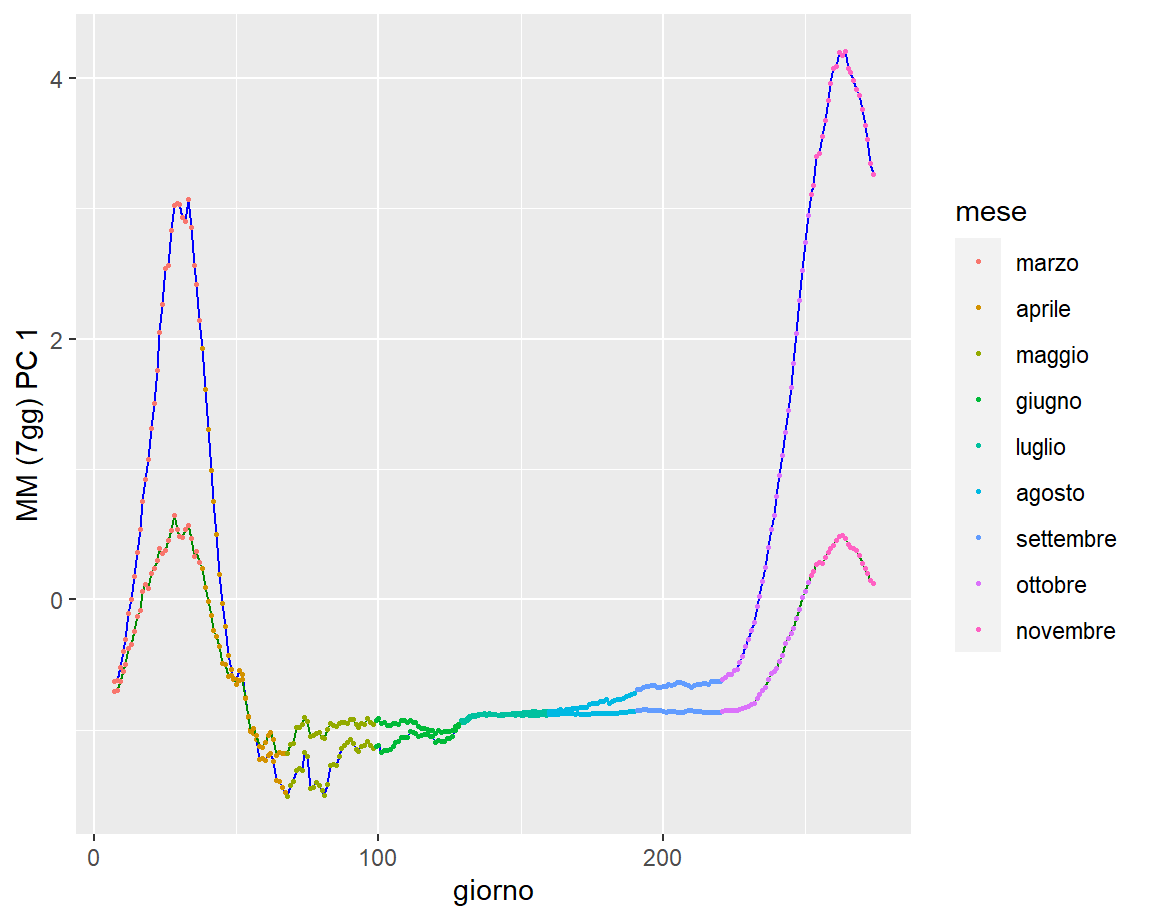
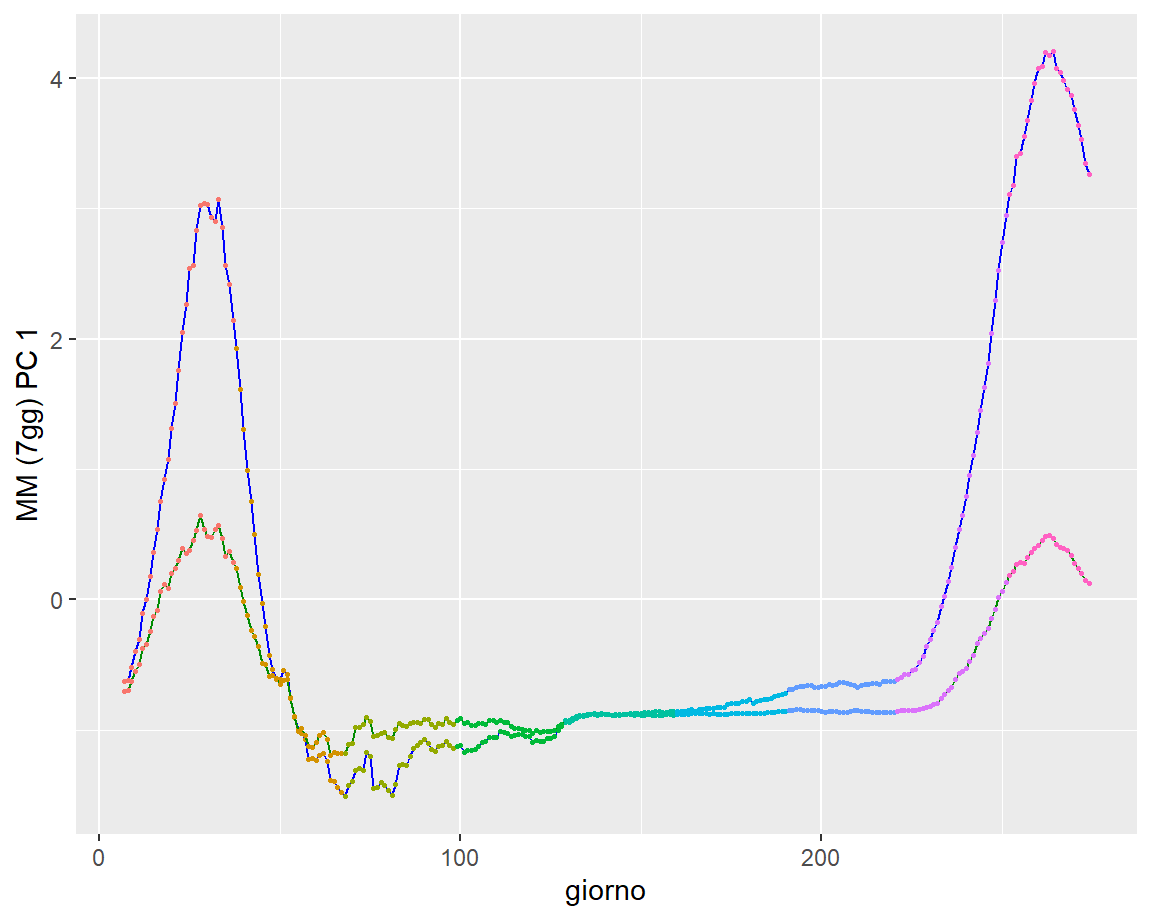
Add files via upload

diff --git a/index.html b/index.html
@@ -2719,16 +2719,16 @@ window.FlexDashboardComponents.push({
 <div class="knitr-options" data-fig-width="576" data-fig-height="460">
 
 </div>
-<div id="htmlwidget-ed10fe36259501f4ece8" style="width:100%;height:auto;" class="datatables html-widget"></div>
-<script type="application/json" data-for="htmlwidget-ed10fe36259501f4ece8">{"x":{"filter":"none","fillContainer":true,"data":[["febbraio","febbraio","febbraio","febbraio","febbraio","febbraio","marzo","marzo","marzo","marzo","marzo","marzo","marzo","marzo","marzo","marzo","marzo","marzo","marzo","marzo","marzo","marzo","marzo","marzo","marzo","marzo","marzo","marzo","marzo","marzo","marzo","marzo","marzo","marzo","marzo","marzo","marzo","aprile","aprile","aprile","aprile","aprile","aprile","aprile","aprile","aprile","aprile","aprile","aprile","aprile","aprile","aprile","aprile","aprile","aprile","aprile","aprile","aprile","aprile","aprile","aprile","aprile","aprile","aprile","aprile","aprile","aprile","maggio","maggio","maggio","maggio","maggio","maggio","maggio","maggio","maggio","maggio","maggio","maggio","maggio","maggio","maggio","maggio","maggio","maggio","maggio","maggio","maggio","maggio","maggio","maggio","maggio","maggio","maggio","maggio","maggio","maggio","maggio","giugno","giugno","giugno","giugno","giugno","giugno","giugno","giugno","giugno","giugno","giugno","giugno","giugno","giugno","giugno","giugno","giugno","giugno","giugno","giugno","giugno","giugno","giugno","giugno","giugno","giugno","giugno","giugno","giugno","giugno","luglio","luglio","luglio","luglio","luglio","luglio","luglio","luglio","luglio","luglio","luglio","luglio","luglio","luglio","luglio","luglio","luglio","luglio","luglio","luglio","luglio","luglio","luglio","luglio","luglio","luglio","luglio","luglio","luglio","luglio","luglio","agosto","agosto","agosto","agosto","agosto","agosto","agosto","agosto","agosto","agosto","agosto","agosto","agosto","agosto","agosto","agosto","agosto","agosto","agosto","agosto","agosto","agosto","agosto","agosto","agosto","agosto","agosto","agosto","agosto","agosto","agosto","settembre","settembre","settembre","settembre","settembre","settembre","settembre","settembre","settembre","settembre","settembre","settembre","settembre","settembre","settembre","settembre","settembre","settembre","settembre","settembre","settembre","settembre","settembre","settembre","settembre","settembre","settembre","settembre","settembre","settembre","ottobre","ottobre","ottobre","ottobre","ottobre","ottobre","ottobre","ottobre","ottobre","ottobre","ottobre","ottobre","ottobre","ottobre","ottobre","ottobre","ottobre","ottobre","ottobre","ottobre","ottobre","ottobre","ottobre","ottobre","ottobre","ottobre","ottobre","ottobre","ottobre","ottobre","ottobre","novembre","novembre","novembre","novembre","novembre","novembre","novembre","novembre","novembre","novembre","novembre","novembre","novembre","novembre","novembre","novembre","novembre","novembre","novembre","novembre","novembre","novembre","novembre"],[1,2,3,4,5,6,7,8,9,10,11,12,13,14,15,16,17,18,19,20,21,22,23,24,25,26,27,28,29,30,31,32,33,34,35,36,37,38,39,40,41,42,43,44,45,46,47,48,49,50,51,52,53,54,55,56,57,58,59,60,61,62,63,64,65,66,67,68,69,70,71,72,73,74,75,76,77,78,79,80,81,82,83,84,85,86,87,88,89,90,91,92,93,94,95,96,97,98,99,100,101,102,103,104,105,106,107,108,109,110,111,112,113,114,115,116,117,118,119,120,121,122,123,124,125,126,127,128,129,130,131,132,133,134,135,136,137,138,139,140,141,142,143,144,145,146,147,148,149,150,151,152,153,154,155,156,157,158,159,160,161,162,163,164,165,166,167,168,169,170,171,172,173,174,175,176,177,178,179,180,181,182,183,184,185,186,187,188,189,190,191,192,193,194,195,196,197,198,199,200,201,202,203,204,205,206,207,208,209,210,211,212,213,214,215,216,217,218,219,220,221,222,223,224,225,226,227,228,229,230,231,232,233,234,235,236,237,238,239,240,241,242,243,244,245,246,247,248,249,250,251,252,253,254,255,256,257,258,259,260,261,262,263,264,265,266,267,268,269,270,271,272,273,274],[101,13,14,120,97,56,238,103,292,312,444,604,257,906,759,722,800,812,776,946,1291,1362,1869,1469,1394,263,1688,2138,846,1245,1175,1641,1276,647,710,409,397,211,137,201,269,-61,27,-258,-233,-86,-157,-98,-297,176,-12,-368,-750,-1107,-779,26,-127,-772,-329,-934,-803,-535,-161,-1019,-630,-513,-1061,-580,-212,-115,-419,-553,-501,-595,-538,-802,-216,-79,-674,-693,-719,-661,-392,-89,-104,-216,-367,-355,-312,-262,-82,-428,-268,-188,-350,-285,-414,-293,-288,-183,-174,-239,-202,-299,-138,-135,-148,-261,-189,-238,-146,-153,-105,-188,-188,-246,-235,-158,-160,-276,-185,-243,-95,-159,-96,-100,-40,-30,-65,-62,-7,-16,5,1,-6,-41,-28,-27,-18,-50,-8,9,20,-47,21,-14,-14,2,-13,-8,-11,0,18,4,5,9,-18,17,-32,-11,3,26,27,3,-2,17,-8,-8,16,22,-22,7,-15,-7,23,23,33,23,17,36,5,47,74,13,-3,76,47,-10,83,37,92,57,68,102,13,63,36,41,18,58,13,102,91,80,100,63,63,39,-7,-15,110,129,54,73,6,9,100,131,71,-1,50,45,63,82,200,138,157,143,161,250,183,302,255,394,326,382,439,514,545,778,603,637,855,738,719,991,958,1026,983,1030,972,936,938,1274,1002,1140,749,1104,1331,1196,997,811,429,1041,484,649,489,538,430,106,347,106,216,418],[26,9,1,20,8,41,35,26,63,66,56,111,105,83,83,144,151,125,175,190,154,179,209,197,241,157,202,152,195,192,93,123,120,124,50,75,42,12,18,15,-74,-17,-79,-106,-99,-88,-108,-116,-38,-83,-74,-107,-143,-124,-79,-98,-62,-102,-87,-117,-94,-71,-93,-53,-93,-68,-101,-116,-39,-38,-22,-52,-94,-22,-143,-134,-7,-28,-47,-59,-38,-47,-33,-13,-13,-33,-40,-36,-45,-23,-19,-12,-20,-16,-16,-14,-25,-15,-11,-16,-55,-15,-22,-23,-6,-4,-20,-14,-13,-9,-7,-11,-2,-30,-14,5,-7,-9,-4,-21,-12,-8,-4,2,-8,1,-2,-3,-6,-5,-3,-8,3,-2,-2,1,-2,-4,2,1,-3,-5,-3,-4,-3,0,-1,-2,2,-1,1,-3,-5,3,1,-5,-2,9,-6,2,-1,-1,0,0,1,0,1,2,1,3,4,2,1,-1,1,2,0,8,2,1,-5,5,-4,1,3,-2,7,5,7,8,13,2,11,1,0,12,9,1,7,14,11,7,5,10,4,6,5,-4,7,7,10,7,5,2,-2,3,7,10,7,9,11,3,3,6,20,-4,18,21,29,3,30,32,62,25,47,52,67,45,47,73,56,66,57,79,80,76,127,125,115,95,97,96,83,203,67,99,124,119,115,100,122,110,89,60,76,116,70,120,58,42,36,10,43,9],[94,68,59,63,128,131,255,129,73,65,90,-95,783,337,756,-337,1125,1312,1165,1659,1408,929,911,982,2845,4250,2931,1667,2739,2175,2223,2728,3005,2880,3055,1164,1668,2714,2322,2123,2691,3050,1993,1244,1527,1789,1661,2210,2319,1270,761,1602,2082,1586,1667,558,169,346,406,200,576,-74,510,782,115,33,-1944,88,12,-372,242,-908,-6344,-1287,-982,-2183,-1295,-729,-501,-2057,-1260,-3662,-1458,-1734,-1681,-1175,-1970,-1401,-1281,-1285,-1057,-854,-2070,-1772,-2614,-1512,-2045,-1286,-431,-1275,-367,-614,-1229,-777,-471,-393,-1690,-887,-871,-1393,-1359,-1047,-258,-1122,-442,-583,-1316,-164,-76,-38,-867,-667,-253,-508,-698,-56,-143,-900,-237,-128,-166,-239,13,68,-459,-607,-106,0,-109,-75,-11,-242,-443,31,-35,-74,87,-36,-145,83,92,-100,128,116,10,24,27,-412,230,44,-3,-7,-19,161,49,213,36,316,88,168,248,281,182,165,303,109,189,240,635,627,825,883,687,505,1039,1105,1049,1126,959,828,571,1004,1019,1081,1082,809,870,754,920,902,1035,627,910,588,421,751,813,1009,704,945,861,274,566,591,934,863,918,564,229,625,1323,1302,1503,1775,1254,1097,2267,3212,3968,4466,4033,3355,4112,4833,6448,7612,9117,8743,7174,7885,12044,13157,15788,16363,18260,13376,17321,20216,21636,25470,24531,25711,17362,20153,24024,27874,25897,32195,24654,13402,15657,22327,21178,27771,23949,23290,4735,15368,8870,18355,15122,14454,13942,-9525],[1,0,2,42,1,4,33,66,11,116,138,109,66,33,102,280,41,213,181,527,369,414,192,1084,415,689,943,952,408,894,1036,999,589,1434,646,1590,1109,1118,1431,1480,1238,819,1022,1555,2099,1979,1985,2079,1677,1224,1695,962,2072,2563,2200,2128,1822,2723,2943,3033,2922,2622,1808,1696,2317,2311,4693,2304,1665,1740,1225,2352,8014,3031,2747,4008,2155,1401,2452,3502,2747,4917,2605,2366,2150,2075,2881,2278,2160,2120,1639,1502,2677,2443,3503,2240,2789,1874,848,1737,846,957,1886,1297,759,747,2062,1293,1399,1747,1780,1505,640,1516,929,1089,1363,546,440,533,1159,1526,614,890,969,307,305,1052,469,366,384,477,164,133,574,825,338,295,306,349,178,335,575,230,237,323,143,213,269,197,214,350,128,126,147,163,275,765,178,255,231,129,177,210,347,319,305,151,150,213,236,226,403,314,146,182,174,364,180,274,243,267,192,353,314,225,348,322,312,117,291,257,289,537,583,405,223,563,471,613,547,759,443,316,695,620,689,853,909,635,352,967,995,1097,954,977,724,773,1316,1198,1140,1126,1247,697,767,1418,1204,1060,1186,976,1184,891,1428,2037,1899,1908,1255,2334,1498,2046,2369,2082,2352,2309,2086,2423,3362,3416,3878,4285,5859,2954,3637,6258,5103,4961,10586,5966,6183,10215,17734,9090,15645,11480,12196,9376,21554,15434,24169,17020,21035,19502,13574,31395],[7,3,2,5,4,8,5,18,27,28,41,49,36,133,97,168,196,189,250,175,368,349,345,475,427,627,793,651,601,743,683,662,969,889,756,812,837,727,760,766,681,525,636,604,542,610,570,619,431,566,602,578,525,575,482,433,454,534,437,464,420,415,260,333,382,323,285,269,474,174,195,236,369,274,243,194,165,179,172,195,262,242,153,145,99,162,161,156,130,119,50,92,78,117,70,87,111,75,60,55,71,88,85,72,53,65,79,71,53,56,78,44,26,34,43,66,47,49,24,23,18,-31,34,30,8,22,6,23,21,30,15,21,7,8,30,15,12,12,7,9,13,17,13,20,11,14,3,13,15,9,10,5,5,5,5,11,6,3,9,5,8,12,5,10,6,3,13,2,4,6,10,6,3,158,4,4,5,7,6,9,3,7,4,4,13,5,9,1,4,6,8,6,10,11,15,8,12,10,14,10,10,6,7,14,9,12,13,10,24,15,17,14,20,23,20,17,17,16,24,19,24,23,27,18,16,28,31,22,28,29,26,39,41,43,83,55,47,69,73,89,127,136,91,151,128,141,221,205,217,199,297,208,233,353,335,445,446,425,331,356,580,623,636,550,544,546,504,731,753,653,699,692,562,630]],"container":"<table class=\"display fill-container\">\n  <thead>\n    <tr>\n      <th>mese<\/th>\n      <th>giorno<\/th>\n      <th>ricoverati<\/th>\n      <th>t_intensiva<\/th>\n      <th>i_domiciliare<\/th>\n      <th>guariti<\/th>\n      <th>morti<\/th>\n    <\/tr>\n  <\/thead>\n<\/table>","options":{"columnDefs":[{"className":"dt-right","targets":[1,2,3,4,5,6]}],"order":[],"autoWidth":false,"orderClasses":false}},"evals":[],"jsHooks":[]}</script>
+<div id="htmlwidget-9547a7f3341434e599c4" style="width:100%;height:auto;" class="datatables html-widget"></div>
+<script type="application/json" data-for="htmlwidget-9547a7f3341434e599c4">{"x":{"filter":"none","fillContainer":true,"data":[["febbraio","febbraio","febbraio","febbraio","febbraio","febbraio","marzo","marzo","marzo","marzo","marzo","marzo","marzo","marzo","marzo","marzo","marzo","marzo","marzo","marzo","marzo","marzo","marzo","marzo","marzo","marzo","marzo","marzo","marzo","marzo","marzo","marzo","marzo","marzo","marzo","marzo","marzo","aprile","aprile","aprile","aprile","aprile","aprile","aprile","aprile","aprile","aprile","aprile","aprile","aprile","aprile","aprile","aprile","aprile","aprile","aprile","aprile","aprile","aprile","aprile","aprile","aprile","aprile","aprile","aprile","aprile","aprile","maggio","maggio","maggio","maggio","maggio","maggio","maggio","maggio","maggio","maggio","maggio","maggio","maggio","maggio","maggio","maggio","maggio","maggio","maggio","maggio","maggio","maggio","maggio","maggio","maggio","maggio","maggio","maggio","maggio","maggio","maggio","giugno","giugno","giugno","giugno","giugno","giugno","giugno","giugno","giugno","giugno","giugno","giugno","giugno","giugno","giugno","giugno","giugno","giugno","giugno","giugno","giugno","giugno","giugno","giugno","giugno","giugno","giugno","giugno","giugno","giugno","luglio","luglio","luglio","luglio","luglio","luglio","luglio","luglio","luglio","luglio","luglio","luglio","luglio","luglio","luglio","luglio","luglio","luglio","luglio","luglio","luglio","luglio","luglio","luglio","luglio","luglio","luglio","luglio","luglio","luglio","luglio","agosto","agosto","agosto","agosto","agosto","agosto","agosto","agosto","agosto","agosto","agosto","agosto","agosto","agosto","agosto","agosto","agosto","agosto","agosto","agosto","agosto","agosto","agosto","agosto","agosto","agosto","agosto","agosto","agosto","agosto","agosto","settembre","settembre","settembre","settembre","settembre","settembre","settembre","settembre","settembre","settembre","settembre","settembre","settembre","settembre","settembre","settembre","settembre","settembre","settembre","settembre","settembre","settembre","settembre","settembre","settembre","settembre","settembre","settembre","settembre","settembre","ottobre","ottobre","ottobre","ottobre","ottobre","ottobre","ottobre","ottobre","ottobre","ottobre","ottobre","ottobre","ottobre","ottobre","ottobre","ottobre","ottobre","ottobre","ottobre","ottobre","ottobre","ottobre","ottobre","ottobre","ottobre","ottobre","ottobre","ottobre","ottobre","ottobre","ottobre","novembre","novembre","novembre","novembre","novembre","novembre","novembre","novembre","novembre","novembre","novembre","novembre","novembre","novembre","novembre","novembre","novembre","novembre","novembre","novembre","novembre","novembre","novembre"],[1,2,3,4,5,6,7,8,9,10,11,12,13,14,15,16,17,18,19,20,21,22,23,24,25,26,27,28,29,30,31,32,33,34,35,36,37,38,39,40,41,42,43,44,45,46,47,48,49,50,51,52,53,54,55,56,57,58,59,60,61,62,63,64,65,66,67,68,69,70,71,72,73,74,75,76,77,78,79,80,81,82,83,84,85,86,87,88,89,90,91,92,93,94,95,96,97,98,99,100,101,102,103,104,105,106,107,108,109,110,111,112,113,114,115,116,117,118,119,120,121,122,123,124,125,126,127,128,129,130,131,132,133,134,135,136,137,138,139,140,141,142,143,144,145,146,147,148,149,150,151,152,153,154,155,156,157,158,159,160,161,162,163,164,165,166,167,168,169,170,171,172,173,174,175,176,177,178,179,180,181,182,183,184,185,186,187,188,189,190,191,192,193,194,195,196,197,198,199,200,201,202,203,204,205,206,207,208,209,210,211,212,213,214,215,216,217,218,219,220,221,222,223,224,225,226,227,228,229,230,231,232,233,234,235,236,237,238,239,240,241,242,243,244,245,246,247,248,249,250,251,252,253,254,255,256,257,258,259,260,261,262,263,264,265,266,267,268,269,270,271,272,273,274],[101,13,14,120,97,56,238,103,292,312,444,604,257,906,759,722,800,812,776,946,1291,1362,1869,1469,1394,263,1688,2138,846,1245,1175,1641,1276,647,710,409,397,211,137,201,269,-61,27,-258,-233,-86,-157,-98,-297,176,-12,-368,-750,-1107,-779,26,-127,-772,-329,-934,-803,-535,-161,-1019,-630,-513,-1061,-580,-212,-115,-419,-553,-501,-595,-538,-802,-216,-79,-674,-693,-719,-661,-392,-89,-104,-216,-367,-355,-312,-262,-82,-428,-268,-188,-350,-285,-414,-293,-288,-183,-174,-239,-202,-299,-138,-135,-148,-261,-189,-238,-146,-153,-105,-188,-188,-246,-235,-158,-160,-276,-185,-243,-95,-159,-96,-100,-40,-30,-65,-62,-7,-16,5,1,-6,-41,-28,-27,-18,-50,-8,9,20,-47,21,-14,-14,2,-13,-8,-11,0,18,4,5,9,-18,17,-32,-11,3,26,27,3,-2,17,-8,-8,16,22,-22,7,-15,-7,23,23,33,23,17,36,5,47,74,13,-3,76,47,-10,83,37,92,57,68,102,13,63,36,41,18,58,13,102,91,80,100,63,63,39,-7,-15,110,129,54,73,6,9,100,131,71,-1,50,45,63,82,200,138,157,143,161,250,183,302,255,394,326,382,439,514,545,778,603,637,855,738,719,991,958,1026,983,1030,972,936,938,1274,1002,1140,749,1104,1331,1196,997,811,429,1041,484,649,489,538,430,106,347,106,216,418],[26,9,1,20,8,41,35,26,63,66,56,111,105,83,83,144,151,125,175,190,154,179,209,197,241,157,202,152,195,192,93,123,120,124,50,75,42,12,18,15,-74,-17,-79,-106,-99,-88,-108,-116,-38,-83,-74,-107,-143,-124,-79,-98,-62,-102,-87,-117,-94,-71,-93,-53,-93,-68,-101,-116,-39,-38,-22,-52,-94,-22,-143,-134,-7,-28,-47,-59,-38,-47,-33,-13,-13,-33,-40,-36,-45,-23,-19,-12,-20,-16,-16,-14,-25,-15,-11,-16,-55,-15,-22,-23,-6,-4,-20,-14,-13,-9,-7,-11,-2,-30,-14,5,-7,-9,-4,-21,-12,-8,-4,2,-8,1,-2,-3,-6,-5,-3,-8,3,-2,-2,1,-2,-4,2,1,-3,-5,-3,-4,-3,0,-1,-2,2,-1,1,-3,-5,3,1,-5,-2,9,-6,2,-1,-1,0,0,1,0,1,2,1,3,4,2,1,-1,1,2,0,8,2,1,-5,5,-4,1,3,-2,7,5,7,8,13,2,11,1,0,12,9,1,7,14,11,7,5,10,4,6,5,-4,7,7,10,7,5,2,-2,3,7,10,7,9,11,3,3,6,20,-4,18,21,29,3,30,32,62,25,47,52,67,45,47,73,56,66,57,79,80,76,127,125,115,95,97,96,83,203,67,99,124,119,115,100,122,110,89,60,76,116,70,120,58,42,36,10,43,9],[94,68,59,63,128,131,255,129,73,65,90,-95,783,337,756,-337,1125,1312,1165,1659,1408,929,911,982,2845,4250,2931,1667,2739,2175,2223,2728,3005,2880,3055,1164,1668,2714,2322,2123,2691,3050,1993,1244,1527,1789,1661,2210,2319,1270,761,1602,2082,1586,1667,558,169,346,406,200,576,-74,510,782,115,33,-1944,88,12,-372,242,-908,-6344,-1287,-982,-2183,-1295,-729,-501,-2057,-1260,-3662,-1458,-1734,-1681,-1175,-1970,-1401,-1281,-1285,-1057,-854,-2070,-1772,-2614,-1512,-2045,-1286,-431,-1275,-367,-614,-1229,-777,-471,-393,-1690,-887,-871,-1393,-1359,-1047,-258,-1122,-442,-583,-1316,-164,-76,-38,-867,-667,-253,-508,-698,-56,-143,-900,-237,-128,-166,-239,13,68,-459,-607,-106,0,-109,-75,-11,-242,-443,31,-35,-74,87,-36,-145,83,92,-100,128,116,10,24,27,-412,230,44,-3,-7,-19,161,49,213,36,316,88,168,248,281,182,165,303,109,189,240,635,627,825,883,687,505,1039,1105,1049,1126,959,828,571,1004,1019,1081,1082,809,870,754,920,902,1035,627,910,588,421,751,813,1009,704,945,861,274,566,591,934,863,918,564,229,625,1323,1302,1503,1775,1254,1097,2267,3212,3968,4466,4033,3355,4112,4833,6448,7612,9117,8743,7174,7885,12044,13157,15788,16363,18260,13376,17321,20216,21636,25470,24531,25711,17362,20153,24024,27874,25897,32195,24654,13402,15657,22327,21178,27771,23949,23290,4735,15368,8870,18355,15122,14454,13942,-9525],[1,0,2,42,1,4,33,66,11,116,138,109,66,33,102,280,41,213,181,527,369,414,192,1084,415,689,943,952,408,894,1036,999,589,1434,646,1590,1109,1118,1431,1480,1238,819,1022,1555,2099,1979,1985,2079,1677,1224,1695,962,2072,2563,2200,2128,1822,2723,2943,3033,2922,2622,1808,1696,2317,2311,4693,2304,1665,1740,1225,2352,8014,3031,2747,4008,2155,1401,2452,3502,2747,4917,2605,2366,2150,2075,2881,2278,2160,2120,1639,1502,2677,2443,3503,2240,2789,1874,848,1737,846,957,1886,1297,759,747,2062,1293,1399,1747,1780,1505,640,1516,929,1089,1363,546,440,533,1159,1526,614,890,969,307,305,1052,469,366,384,477,164,133,574,825,338,295,306,349,178,335,575,230,237,323,143,213,269,197,214,350,128,126,147,163,275,765,178,255,231,129,177,210,347,319,305,151,150,213,236,226,403,314,146,182,174,364,180,274,243,267,192,353,314,225,348,322,312,117,291,257,289,537,583,405,223,563,471,613,547,759,443,316,695,620,689,853,909,635,352,967,995,1097,954,977,724,773,1316,1198,1140,1126,1247,697,767,1418,1204,1060,1186,976,1184,891,1428,2037,1899,1908,1255,2334,1498,2046,2369,2082,2352,2309,2086,2423,3362,3416,3878,4285,5859,2954,3637,6258,5103,4961,10586,5966,6183,10215,17734,9090,15645,11480,12196,9376,21554,15434,24169,17020,21035,19502,13574,31395],[7,3,2,5,4,8,5,18,27,28,41,49,36,133,97,168,196,189,250,175,368,349,345,475,427,627,793,651,601,743,683,662,969,889,756,812,837,727,760,766,681,525,636,604,542,610,570,619,431,566,602,578,525,575,482,433,454,534,437,464,420,415,260,333,382,323,285,269,474,174,195,236,369,274,243,194,165,179,172,195,262,242,153,145,99,162,161,156,130,119,50,92,78,117,70,87,111,75,60,55,71,88,85,72,53,65,79,71,53,56,78,44,26,34,43,66,47,49,24,23,18,-31,34,30,8,22,6,23,21,30,15,21,7,8,30,15,12,12,7,9,13,17,13,20,11,14,3,13,15,9,10,5,5,5,5,11,6,3,9,5,8,12,5,10,6,3,13,2,4,6,10,6,3,158,4,4,5,7,6,9,3,7,4,4,13,5,9,1,4,6,8,6,10,11,15,8,12,10,14,10,10,6,7,14,9,12,13,10,24,15,17,14,20,23,20,17,17,16,24,19,24,23,27,18,16,28,31,22,28,29,26,39,41,43,83,55,47,69,73,89,127,136,91,151,128,141,221,205,217,199,297,208,233,353,335,445,446,425,331,356,580,623,636,550,544,546,504,731,753,653,699,692,562,630]],"container":"<table class=\"display fill-container\">\n  <thead>\n    <tr>\n      <th>mese<\/th>\n      <th>giorno<\/th>\n      <th>ricoverati<\/th>\n      <th>t_intensiva<\/th>\n      <th>i_domiciliare<\/th>\n      <th>guariti<\/th>\n      <th>morti<\/th>\n    <\/tr>\n  <\/thead>\n<\/table>","options":{"columnDefs":[{"className":"dt-right","targets":[1,2,3,4,5,6]}],"order":[],"autoWidth":false,"orderClasses":false}},"evals":[],"jsHooks":[]}</script>
 </div>
 <div id="dati-lombardia" class="section level1">
 <h1>Dati Lombardia</h1>
 <div class="knitr-options" data-fig-width="576" data-fig-height="460">
 
 </div>
-<div id="htmlwidget-e5e4f803dfc3e85b5242" style="width:100%;height:auto;" class="datatables html-widget"></div>
-<script type="application/json" data-for="htmlwidget-e5e4f803dfc3e85b5242">{"x":{"filter":"none","fillContainer":true,"data":[["febbraio","febbraio","febbraio","febbraio","febbraio","febbraio","marzo","marzo","marzo","marzo","marzo","marzo","marzo","marzo","marzo","marzo","marzo","marzo","marzo","marzo","marzo","marzo","marzo","marzo","marzo","marzo","marzo","marzo","marzo","marzo","marzo","marzo","marzo","marzo","marzo","marzo","marzo","aprile","aprile","aprile","aprile","aprile","aprile","aprile","aprile","aprile","aprile","aprile","aprile","aprile","aprile","aprile","aprile","aprile","aprile","aprile","aprile","aprile","aprile","aprile","aprile","aprile","aprile","aprile","aprile","aprile","aprile","maggio","maggio","maggio","maggio","maggio","maggio","maggio","maggio","maggio","maggio","maggio","maggio","maggio","maggio","maggio","maggio","maggio","maggio","maggio","maggio","maggio","maggio","maggio","maggio","maggio","maggio","maggio","maggio","maggio","maggio","maggio","giugno","giugno","giugno","giugno","giugno","giugno","giugno","giugno","giugno","giugno","giugno","giugno","giugno","giugno","giugno","giugno","giugno","giugno","giugno","giugno","giugno","giugno","giugno","giugno","giugno","giugno","giugno","giugno","giugno","giugno","luglio","luglio","luglio","luglio","luglio","luglio","luglio","luglio","luglio","luglio","luglio","luglio","luglio","luglio","luglio","luglio","luglio","luglio","luglio","luglio","luglio","luglio","luglio","luglio","luglio","luglio","luglio","luglio","luglio","luglio","luglio","agosto","agosto","agosto","agosto","agosto","agosto","agosto","agosto","agosto","agosto","agosto","agosto","agosto","agosto","agosto","agosto","agosto","agosto","agosto","agosto","agosto","agosto","agosto","agosto","agosto","agosto","agosto","agosto","agosto","agosto","agosto","settembre","settembre","settembre","settembre","settembre","settembre","settembre","settembre","settembre","settembre","settembre","settembre","settembre","settembre","settembre","settembre","settembre","settembre","settembre","settembre","settembre","settembre","settembre","settembre","settembre","settembre","settembre","settembre","settembre","settembre","ottobre","ottobre","ottobre","ottobre","ottobre","ottobre","ottobre","ottobre","ottobre","ottobre","ottobre","ottobre","ottobre","ottobre","ottobre","ottobre","ottobre","ottobre","ottobre","ottobre","ottobre","ottobre","ottobre","ottobre","ottobre","ottobre","ottobre","ottobre","ottobre","ottobre","ottobre","novembre","novembre","novembre","novembre","novembre","novembre","novembre","novembre","novembre","novembre","novembre","novembre","novembre","novembre","novembre","novembre","novembre","novembre","novembre","novembre","novembre","novembre","novembre"],[1,2,3,4,5,6,7,8,9,10,11,12,13,14,15,16,17,18,19,20,21,22,23,24,25,26,27,28,29,30,31,32,33,34,35,36,37,38,39,40,41,42,43,44,45,46,47,48,49,50,51,52,53,54,55,56,57,58,59,60,61,62,63,64,65,66,67,68,69,70,71,72,73,74,75,76,77,78,79,80,81,82,83,84,85,86,87,88,89,90,91,92,93,94,95,96,97,98,99,100,101,102,103,104,105,106,107,108,109,110,111,112,113,114,115,116,117,118,119,120,121,122,123,124,125,126,127,128,129,130,131,132,133,134,135,136,137,138,139,140,141,142,143,144,145,146,147,148,149,150,151,152,153,154,155,156,157,158,159,160,161,162,163,164,165,166,167,168,169,170,171,172,173,174,175,176,177,178,179,180,181,182,183,184,185,186,187,188,189,190,191,192,193,194,195,196,197,198,199,200,201,202,203,204,205,206,207,208,209,210,211,212,213,214,215,216,217,218,219,220,221,222,223,224,225,226,227,228,229,230,231,232,233,234,235,236,237,238,239,240,241,242,243,244,245,246,247,248,249,250,251,252,253,254,255,256,257,258,259,260,261,262,263,264,265,266,267,268,269,270,271,272,273,274],[76,3,0,93,63,21,150,72,220,179,292,453,39,556,585,517,533,395,188,463,602,671,782,332,102,348,523,1181,-173,445,315,655,456,15,461,202,68,44,-165,40,200,7,-95,-81,-114,77,81,149,-57,59,49,-34,-687,-729,-585,300,-204,-333,-113,-500,-401,-302,-8,-956,-245,-160,-286,-206,-99,80,-195,-213,-122,-231,-146,-167,-107,-31,-175,-215,-189,-113,-184,-41,2,-56,-145,-162,-91,-2,-9,-296,-99,4,-156,82,-245,-176,-46,-64,-26,-41,6,-120,-39,-93,-48,-95,-77,-131,-105,-136,-98,-116,-106,-123,-136,-136,-141,-213,-137,-218,-70,-121,-86,-92,-2,-24,-20,-36,0,-10,-1,3,-4,-18,-10,-11,-17,-13,8,8,1,-13,-5,-10,-1,3,0,-2,-10,5,4,-9,-2,14,3,-3,-3,10,-5,9,-2,4,4,2,-8,-7,-5,10,5,5,-17,-4,-2,0,3,1,4,-6,-1,0,5,5,0,15,-1,13,9,1,17,8,5,19,1,3,-6,6,4,4,-10,5,1,10,1,1,8,12,-13,-7,19,11,14,-5,-3,12,-10,4,9,-9,-8,4,-9,3,9,15,19,22,10,37,25,30,83,99,81,108,109,122,71,132,253,164,328,140,173,133,256,357,283,343,335,213,160,334,278,300,245,250,412,189,268,225,140,272,302,160,120,250,172,-32,13,10,77,-60],[19,6,0,16,6,33,26,21,40,42,35,65,50,40,41,26,94,45,45,82,35,56,56,45,82,44,43,49,41,11,42,27,29,27,9,2,-6,18,9,30,-55,-9,26,-38,-48,-21,-34,-28,2,-33,-21,-48,-42,-61,-24,-25,-21,-50,-34,-27,-34,-32,-18,-26,-25,-21,-29,-42,-18,-13,0,-23,-29,0,-80,-70,18,-7,-19,-15,-10,-21,-8,-13,-3,-8,-13,-5,-19,-8,-2,-1,-13,-8,-2,0,-1,-2,-3,-1,-35,-6,-5,-10,-3,0,-11,2,-1,0,-1,-2,0,-25,-10,1,0,-6,-1,-2,0,-3,0,-1,-4,0,0,-1,-1,0,0,-5,0,0,0,-2,-3,-4,2,2,-1,-3,-4,0,-1,0,0,-1,0,-4,0,0,-4,0,1,-1,0,0,-6,2,0,0,0,2,0,-2,0,0,0,1,0,1,1,0,1,1,0,0,2,1,-3,0,1,0,2,-3,3,1,2,2,-1,1,5,-1,-3,2,1,1,0,3,-3,0,1,0,1,1,2,0,4,2,-2,-2,-1,-2,-1,0,1,0,2,1,1,4,3,-3,2,-1,0,1,3,0,4,2,12,2,8,-1,25,14,3,10,11,22,28,29,18,11,29,21,53,25,22,26,17,40,32,15,48,40,40,20,38,56,18,19,16,20,18,39,9,12,15,6,13,-4],[71,56,18,-9,56,24,159,97,-11,-50,-47,-287,645,34,492,-606,709,693,603,782,347,91,396,-206,1488,1090,1384,-715,1157,502,366,916,1221,572,413,-590,56,579,267,243,886,906,414,-7,364,473,409,607,1062,644,400,640,898,1134,1370,27,315,-226,411,158,930,439,719,1257,573,559,404,510,311,192,576,21,-5188,493,194,-1484,17,259,458,-413,123,-2076,125,-195,-356,282,-462,211,-672,-293,-5,-102,-626,-436,-966,-312,-628,-635,-86,-541,30,47,-372,-224,-37,-8,-963,-347,-439,-185,-133,-658,85,-602,-145,-203,-466,8,74,10,-598,-455,-165,-230,-558,47,-122,-738,-101,-75,-150,-236,20,44,-414,-594,-90,-1,-114,-197,0,-64,-414,-13,-82,-156,-14,-101,-131,-29,-24,-187,16,5,-45,-60,-118,-525,-15,-68,-129,-35,-41,65,-99,-83,-90,48,-36,-44,2,12,-146,-16,21,-43,-24,7,95,76,86,206,76,-82,180,244,227,177,173,120,114,187,157,206,255,104,84,104,99,121,152,-29,220,49,-51,3,120,81,-83,77,52,-58,64,-49,127,-96,159,93,-246,-31,114,-9,2,199,160,-37,349,506,709,857,798,498,782,861,1743,1971,2363,1533,1266,1528,3322,3442,4076,4566,5107,2198,4274,6144,6142,6977,6425,7825,4166,3774,5857,7476,4549,9973,4329,-1160,3740,6132,717,8185,4692,6082,-10340,3939,-4665,3517,4033,3028,1631,-14424],[0,0,0,40,0,0,33,66,0,111,126,93,55,26,96,250,4,185,113,462,351,357,117,1003,290,517,755,815,210,582,624,558,162,961,293,1082,548,530,814,791,222,184,437,635,649,559,574,543,343,312,343,34,541,454,286,390,482,1366,736,1242,430,445,171,191,440,304,416,387,10,225,133,620,5881,324,572,2138,292,75,707,968,487,2394,427,506,508,190,849,207,1018,688,301,513,875,766,1486,546,1028,990,166,781,239,55,752,469,183,263,1199,507,744,557,426,1019,264,877,489,505,741,276,183,345,791,757,383,492,723,129,201,821,225,188,261,330,73,61,458,673,217,145,192,277,78,86,475,96,140,244,48,147,164,85,113,235,63,78,80,99,161,616,97,110,164,48,86,62,208,152,171,29,72,101,95,54,258,113,38,85,71,79,51,97,103,29,27,196,87,30,84,98,48,10,110,39,60,107,134,86,24,158,112,116,114,293,40,64,223,152,150,129,326,134,20,229,119,275,152,336,61,20,435,236,212,304,392,113,78,373,147,153,260,244,202,163,197,865,209,334,154,1285,341,334,519,468,477,170,439,1211,418,989,804,1567,2064,489,889,2539,1495,892,4961,1118,1420,5629,6780,1615,8229,2040,2961,1617,14231,4018,11935,3791,4985,5640,3208,19637],[6,3,0,5,3,6,1,14,17,18,25,37,19,113,66,135,149,127,146,76,252,202,220,319,209,381,546,361,320,402,296,387,541,542,416,458,381,394,367,351,345,249,297,282,238,300,216,273,110,280,241,235,231,243,199,163,163,203,161,200,166,163,56,124,126,104,93,88,329,42,63,95,222,134,94,85,62,68,62,69,111,115,39,69,24,54,65,65,57,56,0,34,22,58,20,38,67,33,19,12,29,29,21,27,21,32,15,32,25,31,23,21,8,9,14,36,18,23,13,3,6,7,22,16,2,13,1,4,6,21,4,16,6,3,13,12,5,6,4,8,9,3,5,10,3,10,0,8,1,1,3,0,0,0,0,1,0,0,4,1,8,3,1,5,5,0,3,1,0,0,0,2,1,1,3,0,0,4,2,6,0,4,1,0,0,0,3,0,3,2,2,2,1,6,1,3,6,2,3,1,4,0,3,2,2,2,1,2,9,5,1,2,0,10,2,4,5,2,3,4,5,4,5,2,2,0,5,1,1,2,3,3,6,17,26,7,13,21,6,19,20,29,7,51,25,17,58,47,57,48,73,54,46,117,96,139,131,108,117,99,129,152,187,118,158,181,99,202,182,165,175,169,165,140]],"container":"<table class=\"display fill-container\">\n  <thead>\n    <tr>\n      <th>mese<\/th>\n      <th>giorno<\/th>\n      <th>ricoverati<\/th>\n      <th>t_intensiva<\/th>\n      <th>i_domiciliare<\/th>\n      <th>guariti<\/th>\n      <th>morti<\/th>\n    <\/tr>\n  <\/thead>\n<\/table>","options":{"columnDefs":[{"className":"dt-right","targets":[1,2,3,4,5,6]}],"order":[],"autoWidth":false,"orderClasses":false}},"evals":[],"jsHooks":[]}</script>
+<div id="htmlwidget-d26d7968cd175e9ebf79" style="width:100%;height:auto;" class="datatables html-widget"></div>
+<script type="application/json" data-for="htmlwidget-d26d7968cd175e9ebf79">{"x":{"filter":"none","fillContainer":true,"data":[["febbraio","febbraio","febbraio","febbraio","febbraio","febbraio","marzo","marzo","marzo","marzo","marzo","marzo","marzo","marzo","marzo","marzo","marzo","marzo","marzo","marzo","marzo","marzo","marzo","marzo","marzo","marzo","marzo","marzo","marzo","marzo","marzo","marzo","marzo","marzo","marzo","marzo","marzo","aprile","aprile","aprile","aprile","aprile","aprile","aprile","aprile","aprile","aprile","aprile","aprile","aprile","aprile","aprile","aprile","aprile","aprile","aprile","aprile","aprile","aprile","aprile","aprile","aprile","aprile","aprile","aprile","aprile","aprile","maggio","maggio","maggio","maggio","maggio","maggio","maggio","maggio","maggio","maggio","maggio","maggio","maggio","maggio","maggio","maggio","maggio","maggio","maggio","maggio","maggio","maggio","maggio","maggio","maggio","maggio","maggio","maggio","maggio","maggio","maggio","giugno","giugno","giugno","giugno","giugno","giugno","giugno","giugno","giugno","giugno","giugno","giugno","giugno","giugno","giugno","giugno","giugno","giugno","giugno","giugno","giugno","giugno","giugno","giugno","giugno","giugno","giugno","giugno","giugno","giugno","luglio","luglio","luglio","luglio","luglio","luglio","luglio","luglio","luglio","luglio","luglio","luglio","luglio","luglio","luglio","luglio","luglio","luglio","luglio","luglio","luglio","luglio","luglio","luglio","luglio","luglio","luglio","luglio","luglio","luglio","luglio","agosto","agosto","agosto","agosto","agosto","agosto","agosto","agosto","agosto","agosto","agosto","agosto","agosto","agosto","agosto","agosto","agosto","agosto","agosto","agosto","agosto","agosto","agosto","agosto","agosto","agosto","agosto","agosto","agosto","agosto","agosto","settembre","settembre","settembre","settembre","settembre","settembre","settembre","settembre","settembre","settembre","settembre","settembre","settembre","settembre","settembre","settembre","settembre","settembre","settembre","settembre","settembre","settembre","settembre","settembre","settembre","settembre","settembre","settembre","settembre","settembre","ottobre","ottobre","ottobre","ottobre","ottobre","ottobre","ottobre","ottobre","ottobre","ottobre","ottobre","ottobre","ottobre","ottobre","ottobre","ottobre","ottobre","ottobre","ottobre","ottobre","ottobre","ottobre","ottobre","ottobre","ottobre","ottobre","ottobre","ottobre","ottobre","ottobre","ottobre","novembre","novembre","novembre","novembre","novembre","novembre","novembre","novembre","novembre","novembre","novembre","novembre","novembre","novembre","novembre","novembre","novembre","novembre","novembre","novembre","novembre","novembre","novembre"],[1,2,3,4,5,6,7,8,9,10,11,12,13,14,15,16,17,18,19,20,21,22,23,24,25,26,27,28,29,30,31,32,33,34,35,36,37,38,39,40,41,42,43,44,45,46,47,48,49,50,51,52,53,54,55,56,57,58,59,60,61,62,63,64,65,66,67,68,69,70,71,72,73,74,75,76,77,78,79,80,81,82,83,84,85,86,87,88,89,90,91,92,93,94,95,96,97,98,99,100,101,102,103,104,105,106,107,108,109,110,111,112,113,114,115,116,117,118,119,120,121,122,123,124,125,126,127,128,129,130,131,132,133,134,135,136,137,138,139,140,141,142,143,144,145,146,147,148,149,150,151,152,153,154,155,156,157,158,159,160,161,162,163,164,165,166,167,168,169,170,171,172,173,174,175,176,177,178,179,180,181,182,183,184,185,186,187,188,189,190,191,192,193,194,195,196,197,198,199,200,201,202,203,204,205,206,207,208,209,210,211,212,213,214,215,216,217,218,219,220,221,222,223,224,225,226,227,228,229,230,231,232,233,234,235,236,237,238,239,240,241,242,243,244,245,246,247,248,249,250,251,252,253,254,255,256,257,258,259,260,261,262,263,264,265,266,267,268,269,270,271,272,273,274],[76,3,0,93,63,21,150,72,220,179,292,453,39,556,585,517,533,395,188,463,602,671,782,332,102,348,523,1181,-173,445,315,655,456,15,461,202,68,44,-165,40,200,7,-95,-81,-114,77,81,149,-57,59,49,-34,-687,-729,-585,300,-204,-333,-113,-500,-401,-302,-8,-956,-245,-160,-286,-206,-99,80,-195,-213,-122,-231,-146,-167,-107,-31,-175,-215,-189,-113,-184,-41,2,-56,-145,-162,-91,-2,-9,-296,-99,4,-156,82,-245,-176,-46,-64,-26,-41,6,-120,-39,-93,-48,-95,-77,-131,-105,-136,-98,-116,-106,-123,-136,-136,-141,-213,-137,-218,-70,-121,-86,-92,-2,-24,-20,-36,0,-10,-1,3,-4,-18,-10,-11,-17,-13,8,8,1,-13,-5,-10,-1,3,0,-2,-10,5,4,-9,-2,14,3,-3,-3,10,-5,9,-2,4,4,2,-8,-7,-5,10,5,5,-17,-4,-2,0,3,1,4,-6,-1,0,5,5,0,15,-1,13,9,1,17,8,5,19,1,3,-6,6,4,4,-10,5,1,10,1,1,8,12,-13,-7,19,11,14,-5,-3,12,-10,4,9,-9,-8,4,-9,3,9,15,19,22,10,37,25,30,83,99,81,108,109,122,71,132,253,164,328,140,173,133,256,357,283,343,335,213,160,334,278,300,245,250,412,189,268,225,140,272,302,160,120,250,172,-32,13,10,77,-60],[19,6,0,16,6,33,26,21,40,42,35,65,50,40,41,26,94,45,45,82,35,56,56,45,82,44,43,49,41,11,42,27,29,27,9,2,-6,18,9,30,-55,-9,26,-38,-48,-21,-34,-28,2,-33,-21,-48,-42,-61,-24,-25,-21,-50,-34,-27,-34,-32,-18,-26,-25,-21,-29,-42,-18,-13,0,-23,-29,0,-80,-70,18,-7,-19,-15,-10,-21,-8,-13,-3,-8,-13,-5,-19,-8,-2,-1,-13,-8,-2,0,-1,-2,-3,-1,-35,-6,-5,-10,-3,0,-11,2,-1,0,-1,-2,0,-25,-10,1,0,-6,-1,-2,0,-3,0,-1,-4,0,0,-1,-1,0,0,-5,0,0,0,-2,-3,-4,2,2,-1,-3,-4,0,-1,0,0,-1,0,-4,0,0,-4,0,1,-1,0,0,-6,2,0,0,0,2,0,-2,0,0,0,1,0,1,1,0,1,1,0,0,2,1,-3,0,1,0,2,-3,3,1,2,2,-1,1,5,-1,-3,2,1,1,0,3,-3,0,1,0,1,1,2,0,4,2,-2,-2,-1,-2,-1,0,1,0,2,1,1,4,3,-3,2,-1,0,1,3,0,4,2,12,2,8,-1,25,14,3,10,11,22,28,29,18,11,29,21,53,25,22,26,17,40,32,15,48,40,40,20,38,56,18,19,16,20,18,39,9,12,15,6,13,-4],[71,56,18,-9,56,24,159,97,-11,-50,-47,-287,645,34,492,-606,709,693,603,782,347,91,396,-206,1488,1090,1384,-715,1157,502,366,916,1221,572,413,-590,56,579,267,243,886,906,414,-7,364,473,409,607,1062,644,400,640,898,1134,1370,27,315,-226,411,158,930,439,719,1257,573,559,404,510,311,192,576,21,-5188,493,194,-1484,17,259,458,-413,123,-2076,125,-195,-356,282,-462,211,-672,-293,-5,-102,-626,-436,-966,-312,-628,-635,-86,-541,30,47,-372,-224,-37,-8,-963,-347,-439,-185,-133,-658,85,-602,-145,-203,-466,8,74,10,-598,-455,-165,-230,-558,47,-122,-738,-101,-75,-150,-236,20,44,-414,-594,-90,-1,-114,-197,0,-64,-414,-13,-82,-156,-14,-101,-131,-29,-24,-187,16,5,-45,-60,-118,-525,-15,-68,-129,-35,-41,65,-99,-83,-90,48,-36,-44,2,12,-146,-16,21,-43,-24,7,95,76,86,206,76,-82,180,244,227,177,173,120,114,187,157,206,255,104,84,104,99,121,152,-29,220,49,-51,3,120,81,-83,77,52,-58,64,-49,127,-96,159,93,-246,-31,114,-9,2,199,160,-37,349,506,709,857,798,498,782,861,1743,1971,2363,1533,1266,1528,3322,3442,4076,4566,5107,2198,4274,6144,6142,6977,6425,7825,4166,3774,5857,7476,4549,9973,4329,-1160,3740,6132,717,8185,4692,6082,-10340,3939,-4665,3517,4033,3028,1631,-14424],[0,0,0,40,0,0,33,66,0,111,126,93,55,26,96,250,4,185,113,462,351,357,117,1003,290,517,755,815,210,582,624,558,162,961,293,1082,548,530,814,791,222,184,437,635,649,559,574,543,343,312,343,34,541,454,286,390,482,1366,736,1242,430,445,171,191,440,304,416,387,10,225,133,620,5881,324,572,2138,292,75,707,968,487,2394,427,506,508,190,849,207,1018,688,301,513,875,766,1486,546,1028,990,166,781,239,55,752,469,183,263,1199,507,744,557,426,1019,264,877,489,505,741,276,183,345,791,757,383,492,723,129,201,821,225,188,261,330,73,61,458,673,217,145,192,277,78,86,475,96,140,244,48,147,164,85,113,235,63,78,80,99,161,616,97,110,164,48,86,62,208,152,171,29,72,101,95,54,258,113,38,85,71,79,51,97,103,29,27,196,87,30,84,98,48,10,110,39,60,107,134,86,24,158,112,116,114,293,40,64,223,152,150,129,326,134,20,229,119,275,152,336,61,20,435,236,212,304,392,113,78,373,147,153,260,244,202,163,197,865,209,334,154,1285,341,334,519,468,477,170,439,1211,418,989,804,1567,2064,489,889,2539,1495,892,4961,1118,1420,5629,6780,1615,8229,2040,2961,1617,14231,4018,11935,3791,4985,5640,3208,19637],[6,3,0,5,3,6,1,14,17,18,25,37,19,113,66,135,149,127,146,76,252,202,220,319,209,381,546,361,320,402,296,387,541,542,416,458,381,394,367,351,345,249,297,282,238,300,216,273,110,280,241,235,231,243,199,163,163,203,161,200,166,163,56,124,126,104,93,88,329,42,63,95,222,134,94,85,62,68,62,69,111,115,39,69,24,54,65,65,57,56,0,34,22,58,20,38,67,33,19,12,29,29,21,27,21,32,15,32,25,31,23,21,8,9,14,36,18,23,13,3,6,7,22,16,2,13,1,4,6,21,4,16,6,3,13,12,5,6,4,8,9,3,5,10,3,10,0,8,1,1,3,0,0,0,0,1,0,0,4,1,8,3,1,5,5,0,3,1,0,0,0,2,1,1,3,0,0,4,2,6,0,4,1,0,0,0,3,0,3,2,2,2,1,6,1,3,6,2,3,1,4,0,3,2,2,2,1,2,9,5,1,2,0,10,2,4,5,2,3,4,5,4,5,2,2,0,5,1,1,2,3,3,6,17,26,7,13,21,6,19,20,29,7,51,25,17,58,47,57,48,73,54,46,117,96,139,131,108,117,99,129,152,187,118,158,181,99,202,182,165,175,169,165,140]],"container":"<table class=\"display fill-container\">\n  <thead>\n    <tr>\n      <th>mese<\/th>\n      <th>giorno<\/th>\n      <th>ricoverati<\/th>\n      <th>t_intensiva<\/th>\n      <th>i_domiciliare<\/th>\n      <th>guariti<\/th>\n      <th>morti<\/th>\n    <\/tr>\n  <\/thead>\n<\/table>","options":{"columnDefs":[{"className":"dt-right","targets":[1,2,3,4,5,6]}],"order":[],"autoWidth":false,"orderClasses":false}},"evals":[],"jsHooks":[]}</script>
 </div>
 <div id="info" class="section level1">
 <h1>Info</h1>
@@ -2766,7 +2766,7 @@ window.FlexDashboardComponents.push({
 <h3 data-height="150"></h3>
 <p>La prima componente “legge” la gravità della situazione in generale.</p>
 <p>L’andamento nel tempo della prima componente (o meglio dellla media mobile a 7 giorni - per “smorzare” le oscillazioni giornaliere ) è in <em>Andamento giornaliero</em>.<br />
-La linea blu è Italia e la verde Lombardia.</p>
+La linea blu è Italia e la verde Lombardia. I pallini sono colorati per mese a partire da marzo 2020.</p>
 <p>Gli stessi colori sono usati per i box con i valori giornalieri delle variabili.</p>
 </div>
 </div>
@@ -2871,7 +2871,7 @@ ggplot(data=S,aes(x=giorno,y=Dim.1,colour=mese,label=giorno))+
   #geom_text()+
   geom_path(mapping=aes(x=S_L$giorno,y=S_L$Dim.1,label=S_L$giorno),colour="green4",size = 0.5)+
   geom_point(mapping=aes(x=S_L$giorno,y=S_L$Dim.1,colour=S_L$mese,label=S_L$giorno),size = 0.6)+ 
-  ylab('MM (7gg) PC 1')
+  ylab('MM (7gg) PC 1')+theme(legend.position="none")
 
 ```
 
@@ -3046,7 +3046,7 @@ Le variabili proiette sul piano PC1/PC2
 La prima componente "legge" la gravità della situazione in generale.
 
 L'andamento nel tempo della prima componente (o meglio dellla media mobile a 7 giorni - per "smorzare" le oscillazioni giornaliere ) è in *Andamento giornaliero*.\
-La linea blu è Italia e la verde Lombardia.
+La linea blu è Italia e la verde Lombardia. I pallini sono colorati per mese a partire da marzo 2020.
 
 Gli stessi colori sono usati per i box con i valori giornalieri delle variabili.
 </code></pre>
